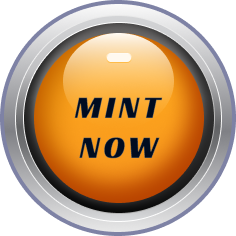
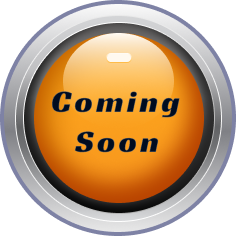
Remove progress section

Changed region(s): [[0.2076, 0.3856, 0.7712, 0.5042], [0.2966, 0.5339, 0.6822, 0.6822]]

diff --git a/src/components/About.jsx b/src/components/About.jsx
@@ -85,8 +85,7 @@ function About() {
     const text = [
         {
             title: 'WHAT IS NFTY RACER',
-            desc: ['NFTY Racer is the blockchain think tank that is developing the first ever Metaverse Car Club (patent pending).\n\t It all begins with the NFTY Racer NFT Genesis Collection -- JDM Legends… ',
-                'JDM Legends is a set of 5,555 Japanese Domestic Market Car NFTs racing on the Solana Blockchain. These JDM legends are all uniquely generated with the properties of the 8 most iconic vehicles of the Japanese Domestic Market from the peak of tuner culture in the 90s. ']
+            desc: ['NFTY Racer is the blockchain think tank that is developing the first ever Metaverse Car Club (patent pending). It all begins with the NFTY Racer NFT Genesis Collection -- JDM Legends…', 'Solana Blockchain. These JDM legends are all uniquely generated with the properties of the 8 most iconic vehicles of the Japanese Domestic Market from the peak of tuner culture in the 90s. ']
         },
         {
             title: 'So Why Are These NFTs The S***?',
@@ -101,18 +100,33 @@ function About() {
         }
     ]
 
-    const [page, setPage] = useState([0, 0, 0])
+    const [page1, setPage1] = useState(0)
+    const [page2, setPage2] = useState(0)
+    const [page3, setPage3] = useState(0)
 
-    const textChangeHandler = (index) => {
-        let arr = page
-        if (page[index] === 0) {
-            arr[index] = 1
-            setPage(arr)
+    const textChangeHandler1 = () => {
+        if (page1 === 0) {
+            setPage1(1)
         } else {
-            arr[index] = 0
-            setPage(arr)
+            setPage1(0)
         }
-        console.log(page)
+    }
+
+    const textChangeHandler2 = () => {
+        if (page2 === 0) {
+            setPage2(1)
+        } else {
+            setPage2(0)
+        }
+        console.log(page2)
+    }
+
+    const textChangeHandler3 = () => {
+        if (page3 === 0) {
+            setPage3(1)
+        } else {
+            setPage3(0)
+        }
     }
     return (
         <div>
@@ -131,13 +145,13 @@ function About() {
                 <DetailDiv>
                     <div>
                         <Title>{text[0].title}</Title>
-                        <Description>{text[0].desc[page[0]]}</Description>
+                        <Description>{text[0].desc[page1]}</Description>
                     </div>
                     <img src={Racer} alt='racer1' />
                 </DetailDiv>
                 <Footer>
                     <FooterText>TAP TO CONTINUE</FooterText>
-                    <Button onClick={() => textChangeHandler(0)}><img src={ArrowRight} alt="Right" style={{ width: '70px', height: '70px' }} /></Button>
+                    <Button onClick={() => textChangeHandler1()}><img src={ArrowRight} alt="Right" style={{ width: '70px', height: '70px' }} /></Button>
                 </Footer>
             </AboutDetails>
             <AboutDetails data-aos="fade-right" data-aos-delay="200">
@@ -147,10 +161,10 @@ function About() {
                     <img src={Racer2} alt='racer1' />
                     <TextWrapper>
                         <Title>{text[1].title}</Title>
-                        <Description>{text[1].desc[0]}</Description>
+                        <Description>{text[1].desc[page2]}</Description>
                         <Footer>
                             <FooterText>TAP TO CONTINUE</FooterText>
-                            <img src={ArrowRight} alt="Right" style={{ width: '70px', height: '70px' }} />
+                            <Button onClick={() => textChangeHandler2()}><img src={ArrowRight} alt="Right" style={{ width: '70px', height: '70px' }} /></Button>
                         </Footer>
                     </TextWrapper>
                 </DetailDiv>
@@ -159,13 +173,13 @@ function About() {
                 <DetailDiv>
                     <div>
                         <Title>{text[2].title}</Title>
-                        <Description style={{ fontSize: '25px' }}>{text[2].desc[0]}</Description>
+                        <Description style={{ fontSize: '25px' }}>{text[2].desc[page3]}</Description>
                     </div>
                     <img src={Racer} alt='racer1' />
                 </DetailDiv>
                 <Footer>
                     <FooterText>TAP TO CONTINUE</FooterText>
-                    <img src={ArrowRight} alt="Right" style={{ width: '70px', height: '70px' }} />
+                    <Button onClick={() => textChangeHandler3()}><img src={ArrowRight} alt="Right" style={{ width: '70px', height: '70px' }} /></Button>
                 </Footer>
             </AboutDetails>
         </div>

diff --git a/src/components/Manual.jsx b/src/components/Manual.jsx
@@ -1,7 +1,7 @@
 import React from 'react'
 import styled from 'styled-components'
 import HowTo from '../assets/Heading.png'
-import Vid1 from '../assets/Vid1.png'
+// import Vid1 from '../assets/Vid1.png'
 import Vid2 from '../assets/Vid2.png'
 import VidControls from '../assets/VidControls.png'
 import ManualPic from '../assets/ManualPic.png'
@@ -69,26 +69,26 @@ function Manual() {
                 <Description data-aos="slide-up" >NFTY Racers Gotta Have Their Learner’s Permit First.
                     Here are a couple of guides to get you on the road.
                 </Description>
-                <div style={{ position: 'relative' }}>
+                {/* <div style={{ position: 'relative' }}>
                     <img src={Vid1} alt='Thumbnail1' style={{ top: 0, left: 0 }} />
                     <Controls src={VidControls} alt='Play' style={{ top: '320px', left: '500px' }} />
-                </div>
+                </div> */}
                 <div style={{ display: 'inline-block', position: 'relative' }}>
                     <img src={Vid2} alt='Thumbnail2' style={{ margin: '20px 40px' }} />
-                    <Controls src={VidControls} alt='Play' style={{ top: '300px', left: '200px' }} />
+                    <a href='https://www.youtube.com/watch?v=xampzXoIMwI'><Controls src={VidControls} alt='Play' style={{ top: '300px', left: '200px' }} /></a>
                     <img src={Vid2} alt='Thumbnail3' style={{ margin: '20px 40px' }} />
-                    <Controls src={VidControls} alt='Play' style={{ top: '300px', left: 'auto', right: '200px' }} />
+                    <a href='https://www.youtube.com/watch?v=wYRPwFruteI'><Controls src={VidControls} alt='Play' style={{ top: '300px', left: 'auto', right: '200px' }} /></a>
                 </div>
                 <ManualDiv data-aos="zoom-in-up">
                     <Heading>NEWBIE RACER MANUAL</Heading>
-                    <Description>1.   Create a Phantom Wallet or Solflare Wallet.</Description>
+                    <Description>1.   Create a Phantom Wallet. </Description>
 
                     <Description>2.  Purchase some Solana on an exchange, such as Coinbase.</Description>
 
-                    <Description>3.  Transfer and fund your Wallet with Solana into your </Description>
+                    <Description>3.  Transfer and fund your Wallet with Solana into your Phantom Wallet</Description>
 
 
-                    <Description>4.  Connect your Phantom or Solflare Wallet to our website.</Description>
+                    <Description>4.  Connect your Phantom to our website.</Description>
 
                     <Description>5.  Mint Your Dream Car.</Description>
                 </ManualDiv>

diff --git a/src/components/Tba.jsx b/src/components/Tba.jsx
@@ -56,10 +56,10 @@ function Tba() {
                     The JDM Legends NFTs will start their <br />
                     engines and burn some digital rubber!
                 </Description>
-                <Title style={{ color: '#595246 ' }}>CLICK HERE TO MINT</Title>
+                <Title style={{ color: '#595246 ' }}>CLICK HERE TO MINT SOON</Title>
                 <img src={ArrowDown} alt="Click Below" />
                 <br />
-                <Button data-aos="fade-down" data-aos-delay="400"><Description style={{ color: 'black', fontSize: '25px', lineHeight: '10px' }}>Mint a JDM Legend or be Dead F***ing Last</Description></Button>
+                <Button data-aos="fade-down" data-aos-delay="400"><Description style={{ color: 'black', fontSize: '25px', lineHeight: '10px' }}>Or be Dead F***ing Last</Description></Button>
             </TbaDiv>
             <img src={Flags} alt='Flags' style={{ marginTop: '330px' }} />
         </Container>

diff --git a/src/App.js b/src/App.js
@@ -5,7 +5,6 @@ import About from './components/About'
 import Tba from './components/Tba'
 import Garage from './components/Garage'
 import Manual from './components/Manual'
-import Progress from './components/Progress'
 import Crew from './components/Crew'
 import Track from './components/Track'
 import Faq from './components/Faq'
@@ -21,7 +20,6 @@ function App() {
       <Tba />
       <Garage />
       <Manual />
-      <Progress />
       <Crew />
       <Track />
       <Faq />
